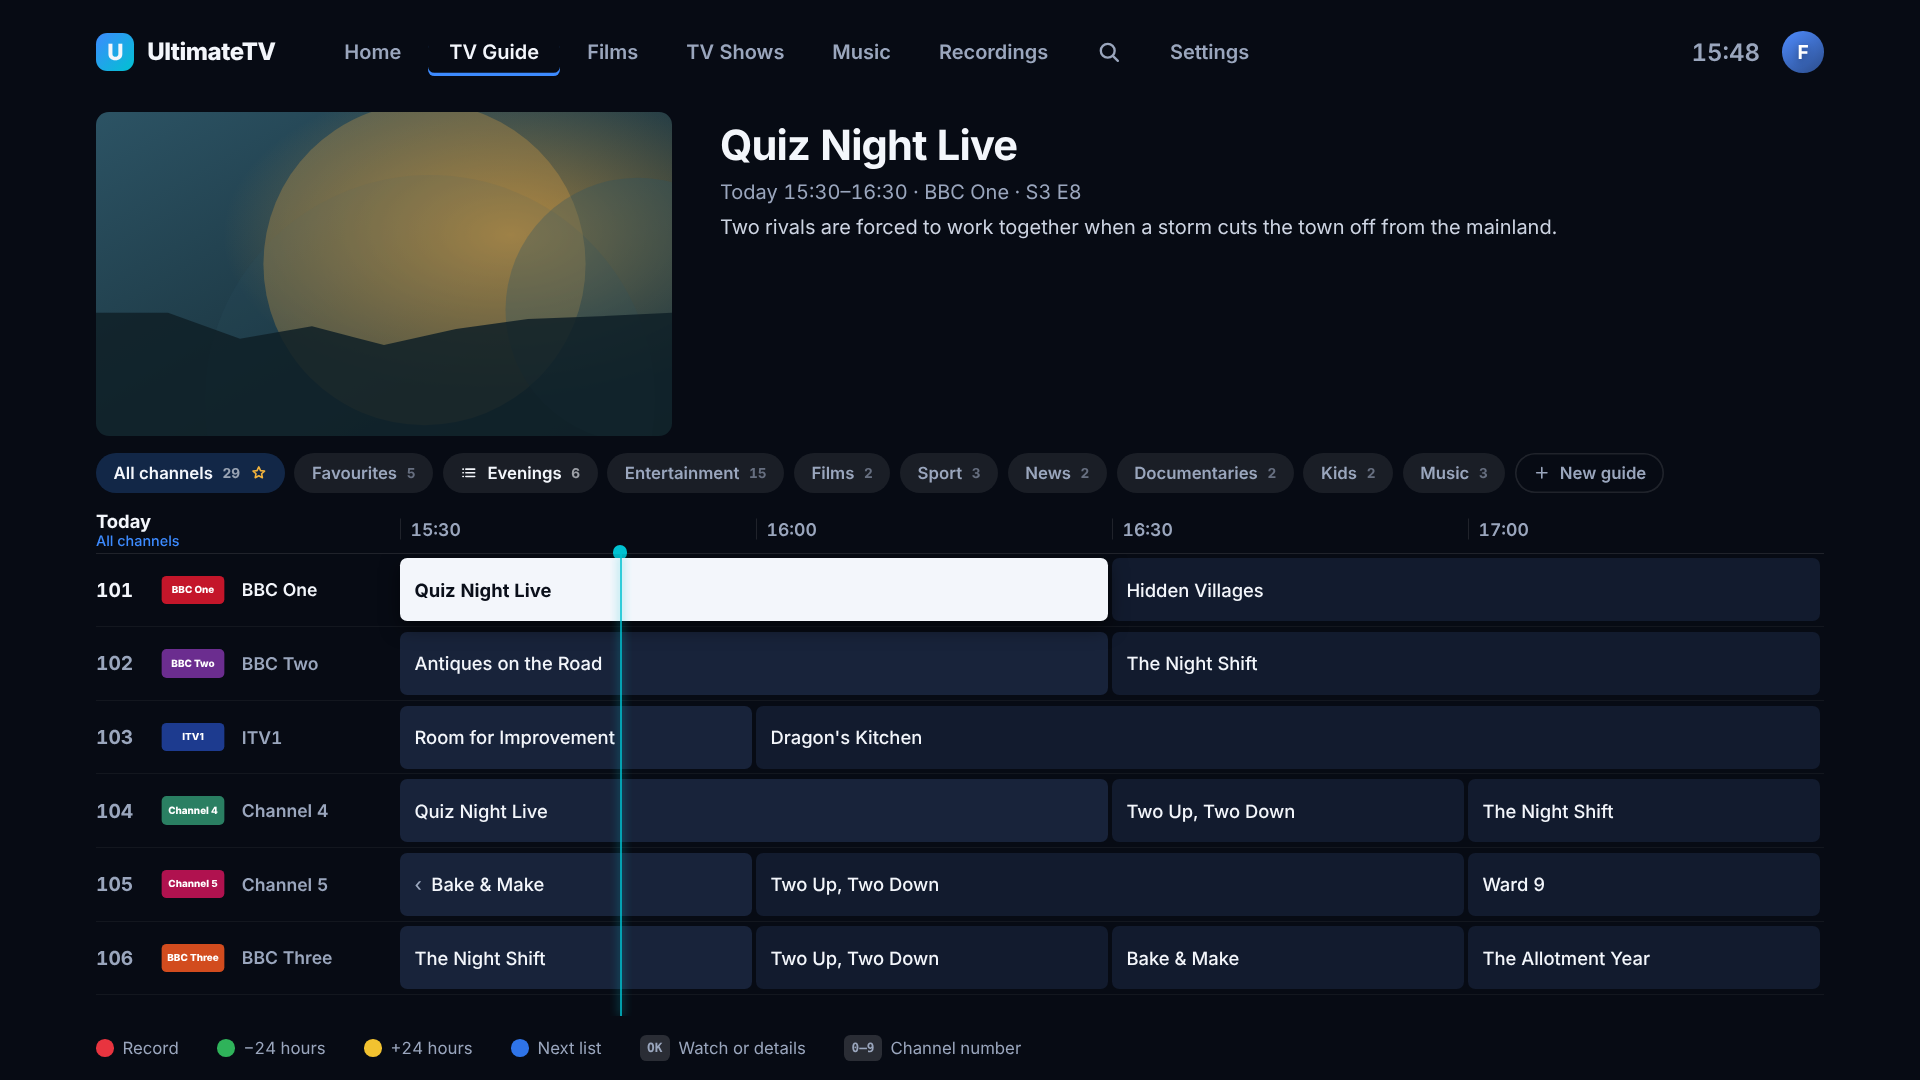
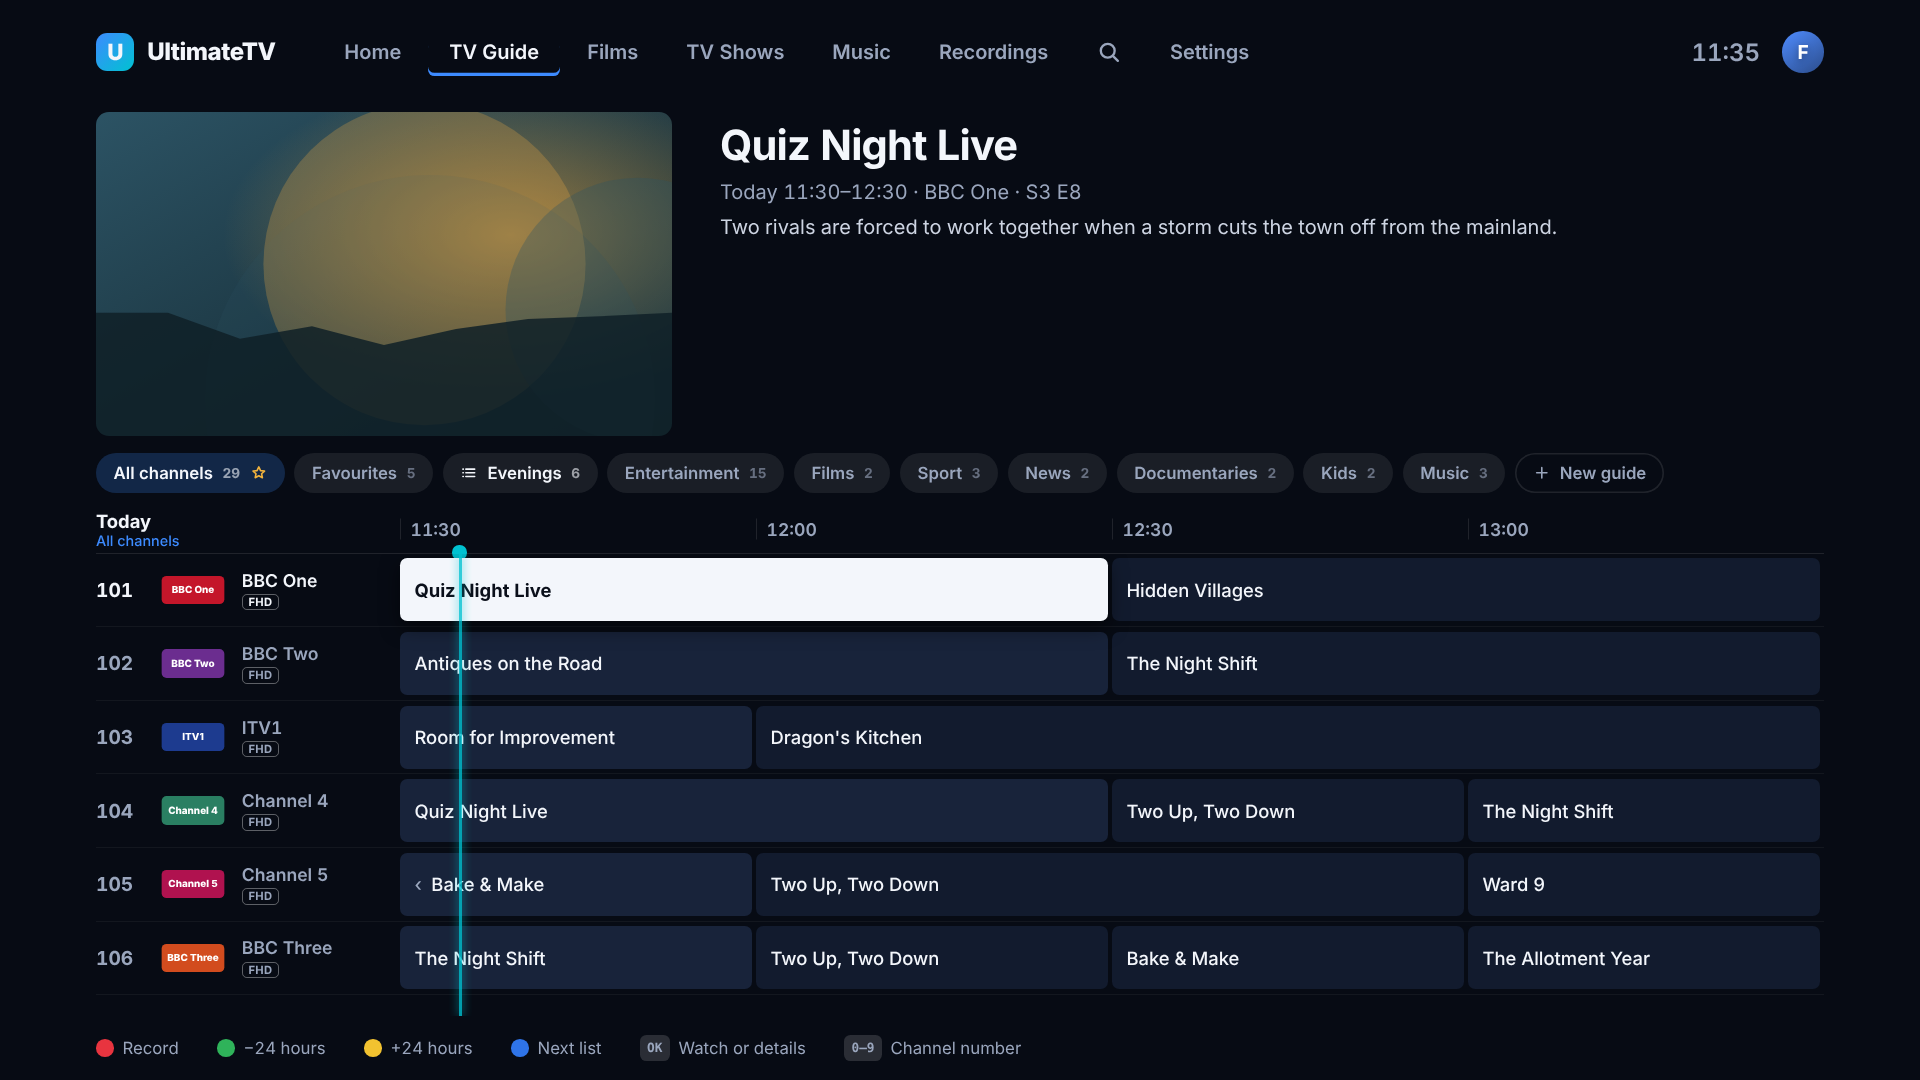
TV guide: quality badge (4K / FHD / HD) under each channel's name
Taken from the best feed's name, the same maxHeight the UHD tab uses. Untagged feeds get no badge rather than a guessed SD.

Claude-Session: https://claude.ai/code/session_013MhLiJjxe2hhtx1TTv4XRE

diff --git a/ui/src/screens/Guide.tsx b/ui/src/screens/Guide.tsx
@@ -394,7 +394,12 @@ export function Guide() {
                     <Show when={c.logo}>
                       <img class="gg-logo" src={c.logo} alt="" onError={(e) => (e.currentTarget.style.display = "none")} />
                     </Show>
-                    <span class="gg-name">{c.name}</span>
+                    <span class="gg-title">
+                      <span class="gg-name">{c.name}</span>
+                      <Show when={qualityLabel(c.maxHeight)}>
+                        {(label) => <span class="gg-quality" classList={{ "gg-quality-4k": c.maxHeight >= 2160 }}>{label()}</span>}
+                      </Show>
+                    </span>
                   </div>
                   <div class="gg-line">
                     <Show when={cellsOf(c)} fallback={<div class="gg-cell gg-empty" classList={{ selected: isRow() }} style={{ left: "0%", width: "100%" }}><span>No information</span></div>}>
@@ -457,4 +462,15 @@ export function Guide() {
       </footer>
     </div>
   );
+}
+
+/**
+ * The best quality a channel has, from its feeds' names ("FHD", "4K"). Untagged feeds aren't
+ * labelled: the provider didn't say, and guessing SD would often be wrong.
+ */
+export function qualityLabel(maxHeight: number): string | undefined {
+  if (maxHeight >= 2160) return "4K";
+  if (maxHeight >= 1080) return "FHD";
+  if (maxHeight >= 720) return "HD";
+  return undefined;
 }

diff --git a/ui/src/styles.css b/ui/src/styles.css
@@ -1066,6 +1066,29 @@ kbd.key-blue {
   overflow: hidden;
   text-overflow: ellipsis;
 }
+.gg-title {
+  min-width: 0;
+  display: flex;
+  flex-direction: column;
+  align-items: flex-start;
+  gap: 0.2rem;
+}
+.gg-name {
+  max-width: 100%;
+}
+.gg-quality {
+  padding: 0 0.35rem;
+  border: 0.1rem solid rgba(255, 255, 255, 0.35);
+  border-radius: 0.3rem;
+  font-size: 0.7rem;
+  font-weight: 700;
+  line-height: 1.3;
+  letter-spacing: 0.03em;
+}
+.gg-quality-4k {
+  border-color: var(--accent);
+  color: var(--accent);
+}
 .gg-line {
   position: relative;
   flex: 1;
